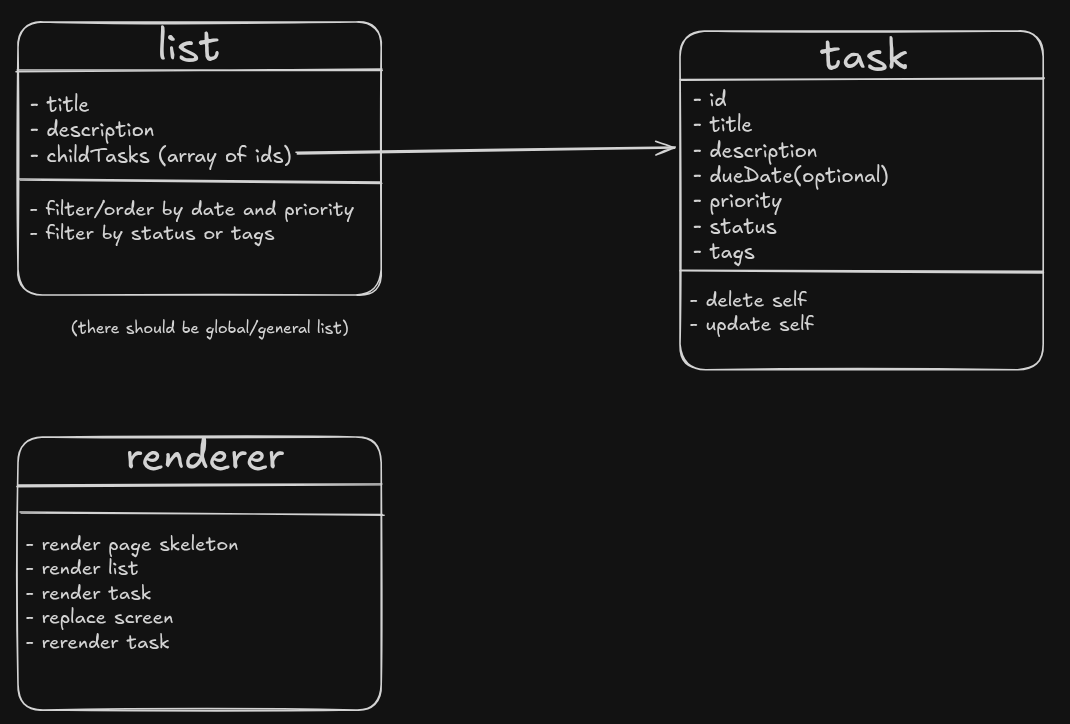
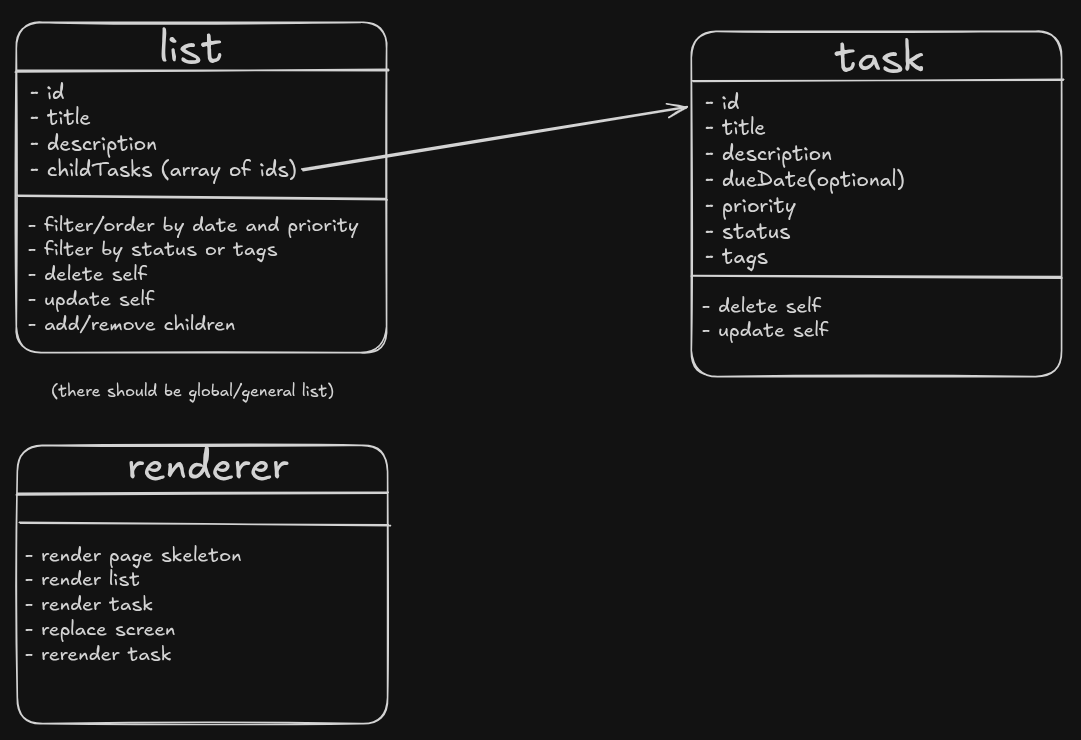
feat: List entity

diff --git a/src/entities/List.js b/src/entities/List.js
@@ -1,0 +1,81 @@
+import Validation from "../utils/Validation";
+
+class List {
+  #id;
+  #title;
+  #description;
+  #tasks = [];
+
+  constructor(title, description) {
+    this.#id = crypto.randomUUID();
+    this.#title = "New List";
+    this.#description = "";
+
+    this.update({
+      title: title,
+      description: description,
+    });
+  }
+
+  get id() {
+    return this.#id;
+  }
+
+  get title() {
+    return this.#title;
+  }
+
+  get details() {
+    return {
+      id: this.#id,
+      title: this.#title,
+      description: this.#description,
+    };
+  }
+
+  get tasks() {
+    return [...this.#tasks];
+  }
+
+  addTask(task) {
+    if (this.#tasks.find((e) => e.id === task.id)) {
+      return false;
+    }
+
+    this.#tasks.push(task);
+    return true;
+  }
+
+  removeTask(id) {
+    const idx = this.#tasks.findIndex((e) => e.id === id);
+    if (idx === -1) return false;
+
+    this.#tasks.splice(idx, 1);
+    return true;
+  }
+
+  update(updated) {
+    let returnError = false;
+    let err;
+
+    [this.#title, err] = Validation.matchPropAndType(
+      updated,
+      "title",
+      "string",
+      this.#title,
+    );
+    returnError ||= err;
+
+    [this.#description, err] = Validation.matchPropAndType(
+      updated,
+      "description",
+      "string",
+      this.#description,
+    );
+    returnError ||= err;
+
+    return returnError;
+  }
+}
+
+export default List;

diff --git a/src/entities/Task.js b/src/entities/Task.js
@@ -58,7 +58,8 @@ class Task {
   }
 
   update(updated) {
-    let returnError = false, err;
+    let returnError = false;
+    let err;
 
     [this.#title, err] = Validation.matchPropAndType(
       updated,
